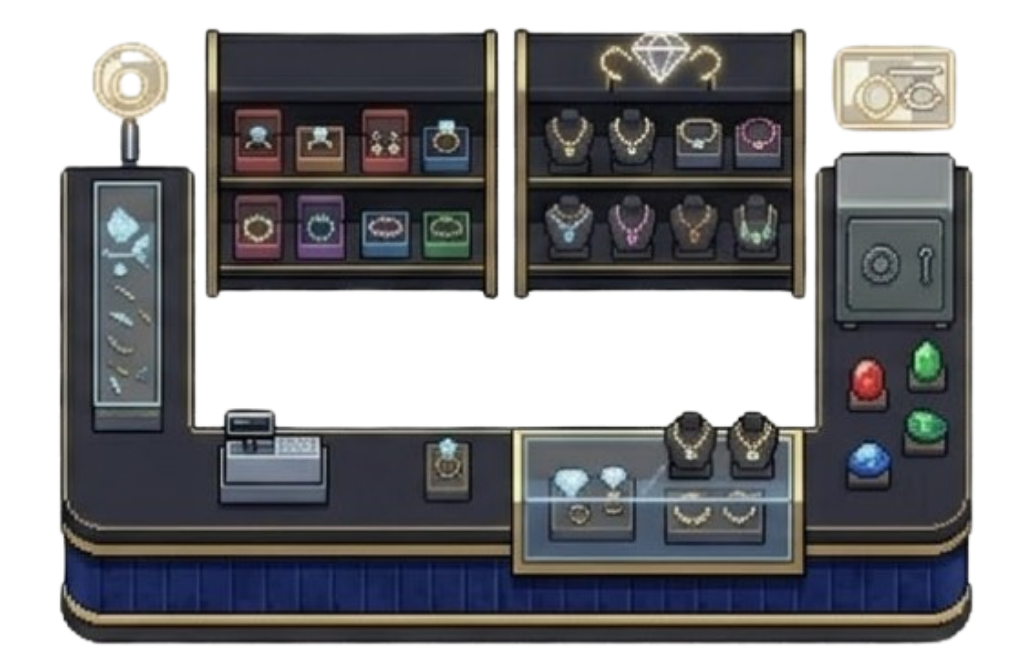
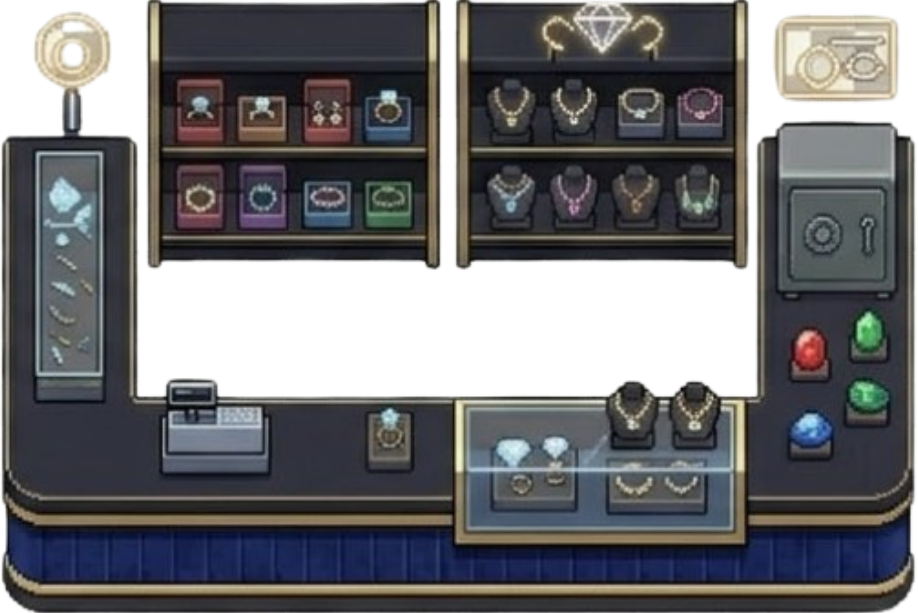
feat(loja): adiciona objetos e colisões na loja de roupas e joalheria (#133)

diff --git a/src/utilitarios/configuracao-interior.js b/src/utilitarios/configuracao-interior.js
@@ -1,10 +1,33 @@
 
 export const ObjetosInterior = {
-    'Cafe': [
-        { imagem: 'lanchoneteBancada', x: 750, y: 360, escala: 0.8 },
-        { imagem: 'lanchoneteMesa', x: 350, y: 800, escala: 0.45 },
-        { imagem: 'lanchonetePosters', x: 1200, y: 200, escala: 0.3 },
-        { imagem: 'lanchonetePrateleiras', x: 1420, y: 750, escala: 0.55 }
+    'Lanchonete': [
+        { imagem: 'lanchoneteBancada', x: 690, y: 250, escala: 0.98 },
+        { imagem: 'lanchoneteMesa', x: 250, y: 750, escala: 0.45 },
+        { imagem: 'lanchonetePosters', x: 1165, y: 120, escala: 0.28 },
+        { imagem: 'lanchonetePrateleiras', x: 1380, y: 600, escala: 0.55 }
+    ],
+
+    'Roupas': [
+        { imagem: 'modaBancada', x: 750, y: 350, escala: 0.45 },
+        { imagem: 'modaMesa', x: 830, y: 780, escala: 0.6 },
+        { imagem: 'modaArmarios1', x: 1453, y: 350, escala: 0.55},
+        { imagem: 'modaArmarios2', x: 1450, y: 685, escala: 0.55 },
+        { imagem: 'modaEspelho', x: 1150, y: 250, escala: 0.5 },
+        { imagem: 'modaManiquins', x: 200, y: 780, escala: 0.5 },
+        { imagem: 'modaSapatos', x: 400, y: 830, escala: 0.3 }
+    ],
+
+    'Joalheria': [
+        { imagem: 'joalheriaBancada', x: 780, y: 350, escala: 0.7 },
+        { imagem: 'joalheriaMesa', x: 1350, y: 750, escala: 0.4 }
+       
+    ],
+
+    'Doces': [
+        { imagem: 'docesBancada', x: 750, y: 360, escala: 0.8 },
+        { imagem: 'docesMesa', x: 350, y: 800, escala: 0.45 },
+        { imagem: 'docesPosters', x: 1200, y: 200, escala: 0.3 },
+        { imagem: 'docesPrateleiras', x: 1420, y: 750, escala: 0.55 }
     ],
 
     'Pelucia': [
@@ -29,7 +52,7 @@ export const ObjetosInterior = {
         { imagem: 'autoEscolaBancada', x: 805, y: 360, escala: 0.6 },
         { imagem: 'autoEscolaBanquinho', x: 1355, y: 550, escala: 0.35 },
         { imagem: 'autoEscolaMesa', x: 1350, y: 700, escala: 0.4 },
-        { imagem: 'autoEscolaPlaca', x: 795, y: 65, escala: 0.5 }
+        { imagem: 'autoEscolaPlaca', x: 795, y: 67, escala: 0.5 }
     ],
     
     'Movel': [

diff --git a/src/cenas/cena-cidade.js b/src/cenas/cena-cidade.js
@@ -85,8 +85,8 @@ export class GameScene extends Phaser.Scene {
                 lojaFisicaOriginX: 0.63,
                 lojaFisicaOriginY: 0.61,
 
-                npcX: 600,
-                npcY: 300,
+                npcX: 770,
+                npcY: 245,
 
                 portaX: 205,
                 portaY: 280,
@@ -205,7 +205,7 @@ export class GameScene extends Phaser.Scene {
                 lojaFisicaOriginY: 0.61,
 
                 npcX: 800,
-                npcY: 315,
+                npcY: 320,
 
                 portaX: 260,
                 portaY: 295,
@@ -221,7 +221,7 @@ export class GameScene extends Phaser.Scene {
                 lojaFisicaOriginX: 0.69,
                 lojaFisicaOriginY: 0.62,
 
-                npcX: 600,
+                npcX: 710,
                 npcY: 325,
 
                 portaX: 220,
@@ -303,8 +303,8 @@ export class GameScene extends Phaser.Scene {
             this.scene.launch('pauseScene');
         });
 
-        console.log('Lembrar de retirar');
-        this.scene.start('chocolateScene');
+    console.log('Lembrar de retirar');
+        this.scene.start('roupasScene');
 
     }
 

diff --git a/src/cenas/cena-loja.js b/src/cenas/cena-loja.js
@@ -297,6 +297,15 @@ export default class LojaScene extends Phaser.Scene {
         else if (this.nomeLoja === 'Chocolate') {
             this.npc.setDepth(101); 
         }
+        else if (this.nomeLoja === 'Autoescola') {
+            this.npc.setDepth(101); 
+        }
+        else if (this.nomeLoja === 'Lanchonete') {
+            this.npc.setDepth(101); 
+        }
+        else if (this.nomeLoja === 'Joalheria') {
+            this.npc.setDepth(101); 
+        }
         
     
 
